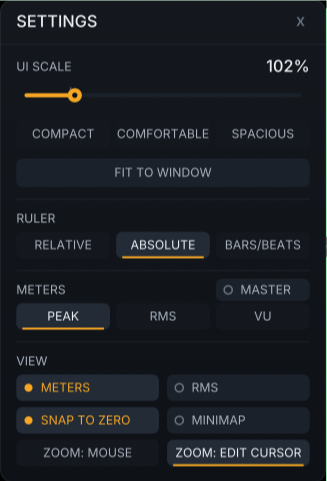
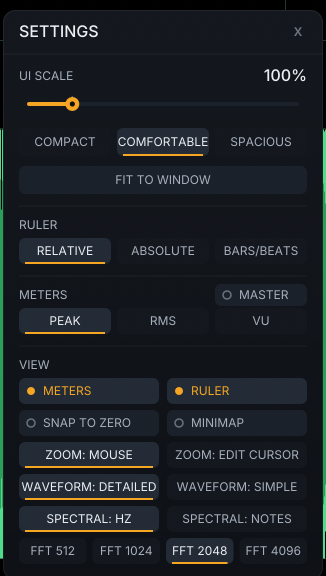
feat: spectrogram FFT-size option - Settings > View gains FFT 512 / 1024 / 2048 / 4096 (default 2048), hop = N/4 at every size, the choice persists and the open spectrogram recomputes on the spot (row 15 #3)
SpectralView carries the size at runtime: the preference (m_fftSize) is
snapshotted into the data geometry (m_specN/Half/Hop) when a compute starts,
so the worker and RenderView always paint the data they hold; the Hann table
is a member rebuilt only while no worker runs. Hop = N/4 keeps 75% overlap at
every size, so memory and compute time do not move with N. Spectral Repair
keeps its own HEAL_FFT (byte-identical suite).

CM_SPECTRAL_FFT_BASE..+3 (appended before CM_LAST, 2260..2263) set the size,
persist ExtState spectral_fft and reset m_spectralPainted - a short item
recomputes faster than one 33 ms timer tick, so the "was loading" pump never
fires and the ready-but-unpainted pump has to paint the result. Startup
restore next to spectral_notes. Settings panel: a 4-way FFT row under
SPECTRAL (SET_HIT_VIEW_FFT0..3, fftSeg[4], kSettingsH 538 -> 570); OFF build:
four checked "Spectral FFT: N" View entries.

Docs per increment: CHANGELOG Added, guide Spectral View + Settings > View
bullet, settings-panel.png re-shot with the new row (1:1, defaults).

Claude-Session: https://claude.ai/code/session_01RnUPyeoxofNpgPoP4AX9n2

diff --git a/docs/guide.html b/docs/guide.html
@@ -886,7 +886,7 @@ hr{border:none;border-top:1px solid var(--border);margin:48px 0}
 
 <p>Toggle the spectrogram via right-click > View > Spectral View. A resizable pane appears below the waveform showing a time-frequency representation of the audio using the magma color scheme (dark = silence, bright = energy).</p>
 
-<p>The spectrogram is computed asynchronously (2048-point FFT) when an item loads. A progress overlay shows computation status. After computation completes, the display updates instantly.</p>
+<p>The spectrogram is computed asynchronously when an item loads, with the FFT size chosen in Settings &gt; View: <strong>FFT 512 / 1024 / 2048 / 4096</strong> (default 2048). A larger size resolves close partials and hum harmonics in frequency (4096 is about 11 Hz per bin at 44.1 kHz), a smaller one keeps clicks and transients sharp in time (512 is about 3 ms per column); the overlap stays at 75% at every size, so the cost does not change with it. The setting is remembered, and a change recomputes the open spectrogram. A progress overlay shows computation status; after computation completes, the display updates instantly.</p>
 
 <p>Click and drag on the spectrogram to select a <strong>time x frequency rectangle</strong> (a dashed marquee with a frosted interior) - the standard spectral-editor selection and the target for Spectral Repair. The time axis stays in sync with the waveform selection. Grab any edge or corner of the rectangle to fine-tune it (the cursor shows resize arrows over the grab zones). Hold <kbd>Alt</kbd> and drag vertically to select a full-width frequency band instead, and <kbd>Shift</kbd>+click to extend the time range.</p>
 
@@ -1097,7 +1097,7 @@ hr{border:none;border-top:1px solid var(--border);margin:48px 0}
 <ul>
   <li><strong>Ruler</strong> - Relative / Absolute / Bars &amp; Beats.</li>
   <li><strong>Meters</strong> - Peak / RMS / VU ballistics, plus the Master Output source toggle.</li>
-  <li><strong>View</strong> - Meters, Ruler (hide for extra waveform height; markers fall back onto the waveform), Snap to Zero-Crossing, Minimap, the wheel-zoom anchor (<strong>Zoom: Mouse</strong> or <strong>Zoom: Edit Cursor</strong> - whether scroll zoom centers on the mouse position or the edit cursor), the <strong>Waveform style</strong> (Detailed = peak + RMS band, Simple = single-color peaks), and the <strong>Spectral scale</strong> (Hz or note names).</li>
+  <li><strong>View</strong> - Meters, Ruler (hide for extra waveform height; markers fall back onto the waveform), Snap to Zero-Crossing, Minimap, the wheel-zoom anchor (<strong>Zoom: Mouse</strong> or <strong>Zoom: Edit Cursor</strong> - whether scroll zoom centers on the mouse position or the edit cursor), the <strong>Waveform style</strong> (Detailed = peak + RMS band, Simple = single-color peaks), the <strong>Spectral scale</strong> (Hz or note names), and the spectrogram <strong>FFT size</strong> (512 / 1024 / 2048 / 4096 - larger is finer in frequency, smaller is sharper in time).</li>
 </ul>
 
 <p>The Dynamics panel follows the global scale too, multiplied by its own corner resize grip, so it grows with the rest of the UI while staying independently adjustable.</p>

diff --git a/src/spectral_view.cpp b/src/spectral_view.cpp
@@ -13,17 +13,6 @@
 #define M_PI 3.14159265358979323846
 #endif
 
-static float s_hann[SpectralView::FFT_SIZE];
-static std::once_flag s_hannFlag;
-
-static void InitHann()
-{
-  std::call_once(s_hannFlag, []() {
-    for (int i = 0; i < SpectralView::FFT_SIZE; i++)
-      s_hann[i] = (float)(0.5 * (1.0 - cos(2.0 * M_PI * i / (SpectralView::FFT_SIZE - 1))));
-  });
-}
-
 static void DoFFT(float* re, float* im, int N)
 {
   for (int i = 1, j = 0; i < N; i++) {
@@ -58,7 +47,14 @@ SpectralView::SpectralView()
     m_colorLUT[i] = MagmaColor((float)i / 255.0f);
     m_colorLUT_Native[i] = (unsigned int)m_colorLUT[i];
   }
-  InitHann();
+}
+
+void SpectralView::SetFftSize(int n)
+{
+  n = kFftSizes[FftIndex(n)];
+  if (n == m_fftSize) return;
+  m_fftSize = n;
+  ClearSpectrum();   // the next Paint recomputes with the new size (pane visible)
 }
 
 SpectralView::~SpectralView()
@@ -133,11 +129,20 @@ void SpectralView::PrecomputeSpectrum(const WaveformView& waveform)
 
   if (nch < 1 || sr <= 0 || audio.empty()) return;
 
-  // Store metadata (safe — thread not running yet)
+  // Store metadata (safe — thread not running yet). The FFT geometry is
+  // snapshotted here: the worker and RenderView read m_specN/Half/Hop only.
   m_specNch = nch;
   m_specSr = sr;
   m_specDuration = (double)totalFrames / (double)sr;
-  m_specCols = (totalFrames + HOP_SIZE - 1) / HOP_SIZE;
+  m_specN = m_fftSize;
+  m_specHalf = m_specN / 2;
+  m_specHop = m_specN / 4;
+  if ((int)m_hann.size() != m_specN) {
+    m_hann.resize((size_t)m_specN);
+    for (int i = 0; i < m_specN; i++)
+      m_hann[(size_t)i] = (float)(0.5 * (1.0 - cos(2.0 * M_PI * i / (m_specN - 1))));
+  }
+  m_specCols = (totalFrames + m_specHop - 1) / m_specHop;
   if (m_specCols < 1) return;
 
   // Copy audio data for the thread (avoid referencing waveform from thread)
@@ -159,32 +164,34 @@ void SpectralView::PrecomputeSpectrum(const WaveformView& waveform)
 void SpectralView::ComputeThreadFunc(std::vector<double> audio, int nch, int sr, int totalFrames)
 {
   (void)sr;
-  int specCols = (totalFrames + HOP_SIZE - 1) / HOP_SIZE;
+  const int N = m_specN, half = m_specHalf, hop = m_specHop;
+  const float* hann = m_hann.data();
+  int specCols = (totalFrames + hop - 1) / hop;
 
   // Allocate result buffer locally; workers write disjoint column ranges.
-  std::vector<unsigned char> specData((size_t)specCols * (size_t)nch * FFT_HALF, 0);
+  std::vector<unsigned char> specData((size_t)specCols * (size_t)nch * (size_t)half, 0);
 
   std::atomic<int> colsDone{0};
 
   auto worker = [&](int c0, int c1) {
-    std::vector<float> re((size_t)FFT_SIZE), im((size_t)FFT_SIZE);
+    std::vector<float> re((size_t)N), im((size_t)N);
     for (int fc = c0; fc < c1; fc++) {
       if (m_cancelRequested.load()) return;
-      int centerFrame = fc * HOP_SIZE;
+      int centerFrame = fc * hop;
 
       auto gather = [&](int ch, float* dst) { // windowed frame of one channel
-        for (int i = 0; i < FFT_SIZE; i++) {
-          int frame = centerFrame - FFT_SIZE / 2 + i;
+        for (int i = 0; i < N; i++) {
+          int frame = centerFrame - N / 2 + i;
           dst[i] = (frame >= 0 && frame < totalFrames)
-            ? (float)audio[(size_t)frame * (size_t)nch + (size_t)ch] * s_hann[i]
+            ? (float)audio[(size_t)frame * (size_t)nch + (size_t)ch] * hann[i]
             : 0.0f;
         }
       };
       auto writeMag = [&](int ch, int bin, float xr, float xi) {
         float m = sqrtf(xr * xr + xi * xi);
-        float db = 20.0f * log10f(m / (float)FFT_SIZE + 1e-10f);
+        float db = 20.0f * log10f(m / (float)N + 1e-10f);
         float norm = (db + 90.0f) / 90.0f;
-        specData[((size_t)fc * (size_t)nch + (size_t)ch) * FFT_HALF + (size_t)bin] =
+        specData[((size_t)fc * (size_t)nch + (size_t)ch) * (size_t)half + (size_t)bin] =
           (unsigned char)(std::max(0.0f, std::min(1.0f, norm)) * 255.0f);
       };
 
@@ -192,9 +199,9 @@ void SpectralView::ComputeThreadFunc(std::vector<double> audio, int nch, int sr,
         if (ch + 1 < nch) {
           gather(ch, re.data());
           gather(ch + 1, im.data());
-          DoFFT(re.data(), im.data(), FFT_SIZE);
-          for (int bin = 0; bin < FFT_HALF; bin++) {
-            int mirror = bin == 0 ? 0 : FFT_SIZE - bin;
+          DoFFT(re.data(), im.data(), N);
+          for (int bin = 0; bin < half; bin++) {
+            int mirror = bin == 0 ? 0 : N - bin;
             float a = re[bin], b = im[bin];
             float c = re[mirror], d = im[mirror];
             writeMag(ch,     bin, 0.5f * (a + c), 0.5f * (b - d));
@@ -203,8 +210,8 @@ void SpectralView::ComputeThreadFunc(std::vector<double> audio, int nch, int sr,
         } else { // odd channel count: plain real-in-re transform for the tail
           gather(ch, re.data());
           std::fill(im.begin(), im.end(), 0.0f);
-          DoFFT(re.data(), im.data(), FFT_SIZE);
-          for (int bin = 0; bin < FFT_HALF; bin++)
+          DoFFT(re.data(), im.data(), N);
+          for (int bin = 0; bin < half; bin++)
             writeMag(ch, bin, re[bin], im[bin]);
         }
       }
@@ -274,7 +281,7 @@ void SpectralView::RenderView(const WaveformView& waveform)
     int chSep = (nch > 1) ? SP(CHANNEL_SEPARATOR_HEIGHT) : 0;
     int chH = (nch > 1) ? (height - chSep) / 2 : height;
 
-    double colTime = (double)HOP_SIZE / (double)m_specSr;
+    double colTime = (double)m_specHop / (double)m_specSr;
     double nyquist = (double)m_specSr / 2.0;
     double fMin = std::min(FREQ_MIN, nyquist * 0.5);
     double fMax = std::min(FREQ_MAX, nyquist);
@@ -291,15 +298,15 @@ void SpectralView::RenderView(const WaveformView& waveform)
     for (int py = 0; py < chH; py++) {
       double pyFrac = (double)py / (double)chH;
       double freq = fMin * pow(logRatio, pyFrac);
-      float binF = (float)(freq / nyquist * (double)(FFT_HALF - 1));
+      float binF = (float)(freq / nyquist * (double)(m_specHalf - 1));
       binLow[py] = (int)binF;
-      binHigh[py] = std::min(binLow[py] + 1, FFT_HALF - 1);
+      binHigh[py] = std::min(binLow[py] + 1, m_specHalf - 1);
       binFrac[py] = binF - (float)binLow[py];
     }
     for (int py = 0; py <= chH; py++) {
       double pyFrac = (double)py / (double)chH;
       double freq = fMin * pow(logRatio, pyFrac);
-      binEdge[(size_t)py] = (float)(freq / nyquist * (double)(FFT_HALF - 1));
+      binEdge[(size_t)py] = (float)(freq / nyquist * (double)(m_specHalf - 1));
     }
 
     for (int px = 0; px < width; px++) {
@@ -314,15 +321,15 @@ void SpectralView::RenderView(const WaveformView& waveform)
 
       for (int ch = 0; ch < nch; ch++) {
         int chTop = ch * (chH + chSep);
-        const unsigned char* col0 = &m_specData[((size_t)sc0 * (size_t)nch + (size_t)ch) * FFT_HALF];
-        const unsigned char* col1 = &m_specData[((size_t)sc1 * (size_t)nch + (size_t)ch) * FFT_HALF];
+        const unsigned char* col0 = &m_specData[((size_t)sc0 * (size_t)nch + (size_t)ch) * m_specHalf];
+        const unsigned char* col1 = &m_specData[((size_t)sc1 * (size_t)nch + (size_t)ch) * m_specHalf];
 
         for (int py = 0; py < chH; py++) {
           int screenY = chTop + chH - 1 - py;
           if (screenY < 0 || screenY >= height) continue;
 
           int b0 = binLow[py], b1 = binHigh[py];
-          int bSpanEnd = std::min(FFT_HALF - 1, (int)binEdge[(size_t)py + 1]);
+          int bSpanEnd = std::min(m_specHalf - 1, (int)binEdge[(size_t)py + 1]);
           bool freqDown = (bSpanEnd - b0) >= 2; // row spans 2+ bins
 
           float val;
@@ -334,7 +341,7 @@ void SpectralView::RenderView(const WaveformView& waveform)
             int bHi = std::max(b0, bSpanEnd);
             for (int c = sc0; c <= scEnd; c++) {
               const unsigned char* colp =
-                &m_specData[((size_t)c * (size_t)nch + (size_t)ch) * FFT_HALF];
+                &m_specData[((size_t)c * (size_t)nch + (size_t)ch) * m_specHalf];
               for (int b = b0; b <= bHi; b++) mx = std::max(mx, colp[b]);
             }
             val = (float)mx;

diff --git a/src/context_menu.cpp b/src/context_menu.cpp
@@ -389,6 +389,12 @@ void SneakPeak::OnRightClick(int x, int y)
   MenuAppend(viewMenu, MF_STRING, CM_SPECTRAL_NOTES,
              m_spectral.GetNoteScale() ? "Spectral Scale: Notes  \xE2\x9C\x93"
                                        : "Spectral Scale: Notes");
+  for (int i = 0; i < 4; ++i) {
+    char buf[40];
+    snprintf(buf, sizeof(buf), "Spectral FFT: %d%s", SpectralView::kFftSizes[i],
+             m_spectral.GetFftSize() == SpectralView::kFftSizes[i] ? "  \xE2\x9C\x93" : "");
+    MenuAppend(viewMenu, MF_STRING, CM_SPECTRAL_FFT_BASE + (unsigned)i, buf);
+  }
 #endif
 #ifndef SNEAKPEAK_BLEND2D_PANEL
   // UI Scale submenu - the OFF-build (GDI) fallback control only. The premium build
@@ -1067,6 +1073,18 @@ void SneakPeak::OnContextMenuCommand(int id)
         MarkUiScaleUserSet();
       } else if (id >= CM_SPECTRAL_HEAL_BASE && id < CM_SPECTRAL_HEAL_BASE + kHealStrengthCount) {
         DoSpectralHeal(kHealStrengths[id - CM_SPECTRAL_HEAL_BASE]);
+      } else if (id >= CM_SPECTRAL_FFT_BASE && id <= CM_SPECTRAL_FFT_LAST) {
+        // Spectrogram FFT size (row 15 #3): drops the spectrum; the visible pane recomputes.
+        // A short item recomputes faster than one timer tick, so the "was loading" pump
+        // never fires - the ready-but-unpainted pump (m_spectralPainted) paints the result.
+        m_spectral.SetFftSize(SpectralView::kFftSizes[id - CM_SPECTRAL_FFT_BASE]);
+        m_spectralPainted = false;
+        if (g_SetExtState) {
+          char buf[8];
+          snprintf(buf, sizeof(buf), "%d", m_spectral.GetFftSize());
+          g_SetExtState("SneakPeak", "spectral_fft", buf, true);
+        }
+        Invalidate();
       } else if (id >= CM_LIM_PRESET_BASE && id < CM_LIM_PRESET_BASE + kLimPresetCount) {
         m_limiterPanel.ApplyPreset(id - CM_LIM_PRESET_BASE);
         m_limiterPanel.ClearParamsChanged();

diff --git a/src/spectral_view.h b/src/spectral_view.h
@@ -29,10 +29,16 @@ public:
   float GetProgress() const { return m_progress.load(); }
 
 
-  // FFT parameters
-  static const int FFT_SIZE = 2048;
-  static const int FFT_HALF = FFT_SIZE / 2;
-  static const int HOP_SIZE = 512;
+  // FFT size preference (row 15 #3): 512 / 1024 / 2048 / 4096, hop = N/4 (75 %
+  // overlap at every size, so columns x bytes per column - memory and compute -
+  // stay constant). A change drops the spectrum; the next Paint recomputes.
+  static constexpr int kFftSizes[4] = { 512, 1024, 2048, 4096 };
+  static int FftIndex(int n) {          // size -> kFftSizes index (unknown -> 2048)
+    for (int i = 0; i < 4; i++) if (kFftSizes[i] == n) return i;
+    return 2;
+  }
+  void SetFftSize(int n);
+  int  GetFftSize() const { return m_fftSize; }
 
   // Display frequency range (Hz)
   static constexpr double FREQ_MIN = 20.0;
@@ -77,8 +83,13 @@ private:
   COLORREF m_colorLUT[256];
   unsigned int m_colorLUT_Native[256];
 
-  // Pre-computed full spectrogram
+  // Pre-computed full spectrogram. m_specN/Half/Hop are the geometry the DATA was
+  // computed with (snapshot of the preference at launch) - the worker and
+  // RenderView read these, never m_fftSize, so render always matches the data.
   std::vector<unsigned char> m_specData;
+  int m_fftSize = 2048;
+  int m_specN = 2048, m_specHalf = 1024, m_specHop = 512;
+  std::vector<float> m_hann;   // window of m_specN taps, rebuilt while no worker runs
   int m_specCols = 0;
   int m_specNch = 0;
   int m_specSr = 0;

diff --git a/src/ui_render.h b/src/ui_render.h
@@ -304,6 +304,10 @@ enum SettingsHit {
   SET_HIT_VIEW_WAVE1   = 20,  // waveform style: Simple (single colour, #83)
   SET_HIT_VIEW_SPEC0   = 21,  // spectral scale: Hz
   SET_HIT_VIEW_SPEC1   = 22,  // spectral scale: note names (forum #88)
+  SET_HIT_VIEW_FFT0    = 23,  // spectrogram FFT size 512 / 1024 / 2048 / 4096 (FFT0 + i)
+  SET_HIT_VIEW_FFT1    = 24,
+  SET_HIT_VIEW_FFT2    = 25,
+  SET_HIT_VIEW_FFT3    = 26,
 };
 
 // Current preference values, filled by the host each paint (it owns this state).
@@ -318,6 +322,7 @@ struct SettingsPrefs {
   bool minimap = false;
   bool zoomOnCursor = false;   // wheel zoom centers on the edit cursor (default: mouse)
   bool spectralNotes = false;  // spectral scale/grid in note names instead of Hz (#88)
+  int  spectralFft = 2;        // SpectralView::kFftSizes index (512 / 1024 / 2048 / 4096)
 };
 
 // View-model for RenderSettingsPanel - pure data, built by SettingsPanel each paint.
@@ -379,6 +384,7 @@ struct SettingsLayout {
   URect zoomSeg[2];                              // VIEW: wheel-zoom center Mouse / Cursor
   URect waveSeg[2];                              // VIEW: waveform style Detailed / Simple
   URect specSeg[2];                              // VIEW: spectral scale Hz / Notes
+  URect fftSeg[4];                               // VIEW: spectrogram FFT 512 / 1024 / 2048 / 4096
 };
 SettingsLayout ComputeSettingsLayout(double w, double h);
 

diff --git a/src/ui_render.cpp b/src/ui_render.cpp
@@ -1393,7 +1393,11 @@ SettingsLayout ComputeSettingsLayout(double w, double h)
   y += 32.0;
   L.specSeg[0] = { pad, y, pillW, 26.0 };                     // SPECTRAL: HZ
   L.specSeg[1] = { pad + pillW + 8.0, y, pillW, 26.0 };       // SPECTRAL: NOTES
-  // final y + 26 + 16 bottom pad == kSettingsH (538) - keep in sync with ui_theme.h
+  y += 32.0;
+  const double fftW = (w - 2.0 * pad - 18.0) / 4.0;
+  for (int i = 0; i < 4; ++i)
+    L.fftSeg[i] = { pad + i * (fftW + 6.0), y, fftW, 26.0 };  // FFT 512 .. 4096
+  // final y + 26 + 16 bottom pad == kSettingsH (570) - keep in sync with ui_theme.h
   return L;
 }
 
@@ -1539,6 +1543,11 @@ void UiCanvas::RenderSettingsPanel(HDC hdc, int x, int y, int w, int h, double d
     // horizontal grid lines follow the active scale.
     DrawSegmented2(ctx, gfx, L.specSeg[0], L.specSeg[1], "SPECTRAL: HZ",
                    "SPECTRAL: NOTES", vm.prefs.spectralNotes);
+    // Spectrogram FFT size (row 15 #3): finer frequency (4096) vs sharper time (512).
+    {
+      static const char* const kFftLabels[4] = { "FFT 512", "FFT 1024", "FFT 2048", "FFT 4096" };
+      DrawSegmentedN(ctx, gfx, L.fftSeg, kFftLabels, 4, vm.prefs.spectralFft);
+    }
 
     if (ctx.end() != BL_SUCCESS) return;
   }

diff --git a/src/settings_panel.cpp b/src/settings_panel.cpp
@@ -84,6 +84,8 @@ int SettingsPanel::HitId(double lx, double ly) const
   if (L.waveSeg[1].contains(lx, ly))    return SET_HIT_VIEW_WAVE1;
   if (L.specSeg[0].contains(lx, ly))    return SET_HIT_VIEW_SPEC0;
   if (L.specSeg[1].contains(lx, ly))    return SET_HIT_VIEW_SPEC1;
+  for (int i = 0; i < 4; ++i)
+    if (L.fftSeg[i].contains(lx, ly)) return SET_HIT_VIEW_FFT0 + i;
   return SET_HIT_NONE;
 }
 
@@ -138,7 +140,7 @@ bool SettingsPanel::OnMouseDown(int x, int y, RECT wr)
   // Migrated preferences: report the control id; the host runs its CM_* handler
   // (single behavior path for the panel and the OFF-build menu).
   const int hit = HitId(lx, ly);
-  if (hit >= SET_HIT_RULER0 && hit <= SET_HIT_VIEW_SPEC1) {
+  if (hit >= SET_HIT_RULER0 && hit <= SET_HIT_VIEW_FFT3) {
     m_prefClicked = hit;
     return true;
   }

diff --git a/src/input_handling.cpp b/src/input_handling.cpp
@@ -185,6 +185,10 @@ void SneakPeak::OnMouseDown(int x, int y, WPARAM wParam)
           // Spectral scale (#88): Hz vs note names, same 2-way pattern.
           case SET_HIT_VIEW_SPEC0:   if (m_spectral.GetNoteScale())  cmd = CM_SPECTRAL_NOTES; break;
           case SET_HIT_VIEW_SPEC1:   if (!m_spectral.GetNoteScale()) cmd = CM_SPECTRAL_NOTES; break;
+          // Spectrogram FFT size: a 4-way selector, one command id per size.
+          case SET_HIT_VIEW_FFT0: case SET_HIT_VIEW_FFT1:
+          case SET_HIT_VIEW_FFT2: case SET_HIT_VIEW_FFT3:
+            cmd = CM_SPECTRAL_FFT_BASE + (pref - SET_HIT_VIEW_FFT0); break;
         }
         if (cmd) OnContextMenuCommand(cmd);
       }

diff --git a/src/ui_theme.h b/src/ui_theme.h
@@ -99,7 +99,7 @@ constexpr int    kLoopPanelH = 352;  // == ComputeLoopLabLayout's footer bottom 
 
 // --- Settings panel (premium Settings overlay, v2.2.0) ---
 constexpr int    kSettingsW = 320;   // base size, logical px (scales with g_uiScale)
-constexpr int    kSettingsH = 538;   // == ComputeSettingsLayout's final y + bottom pad (keep in sync)
+constexpr int    kSettingsH = 570;   // == ComputeSettingsLayout's final y + bottom pad (keep in sync)
 // Density presets: friendly absolute UI scales (Compact / Comfortable / Spacious).
 // Shared by the renderer (active-segment detection) and the panel (click apply).
 constexpr double kDensityScale[3] = { 0.9, 1.0, 1.25 };

diff --git a/src/settings_panel.h b/src/settings_panel.h
@@ -37,7 +37,7 @@ public:
   // One-shot flags, polled by the host right after a consumed OnMouseDown.
   bool ScaleChangedByClick() { bool v = m_scaleClicked; m_scaleClicked = false; return v; }
   bool FitRequested()        { bool v = m_fitRequested; m_fitRequested = false; return v; }
-  // Preference control clicked (SET_HIT_RULER0..SET_HIT_VIEW_SPEC1), or
+  // Preference control clicked (SET_HIT_RULER0..SET_HIT_VIEW_FFT3), or
   // SET_HIT_NONE. The host maps the id onto its existing CM_* command handler.
   int  PrefClicked()         { int v = m_prefClicked; m_prefClicked = SET_HIT_NONE; return v; }
 

diff --git a/src/edit_view.h b/src/edit_view.h
@@ -196,6 +196,8 @@ enum ContextMenuID {
   CM_LOOP_LAB,                                         // INC-A5: open the Loop Lab panel
   CM_EDIT_COPY_STANDALONE,                             // INC-B4: ITEM -> copy as standalone tab
   CM_MULTI_MODE_LANES,                                 // row 15 #2: Lanes (per Track) - appended, ids are numeric in specs
+  CM_SPECTRAL_FFT_BASE,                                // row 15 #3: + SpectralView::kFftSizes index (512..4096)
+  CM_SPECTRAL_FFT_LAST = CM_SPECTRAL_FFT_BASE + 3,
   CM_LAST // sentinel -- keep last
 };
 

diff --git a/src/edit_view.cpp b/src/edit_view.cpp
@@ -137,6 +137,8 @@ void SneakPeak::Create()
     if (showRuler && showRuler[0] == '0') m_showRuler = false;
     const char* specNotes = g_GetExtState("SneakPeak", "spectral_notes");
     if (specNotes && specNotes[0] == '1') m_spectral.SetNoteScale(true);
+    const char* specFft = g_GetExtState("SneakPeak", "spectral_fft");
+    if (specFft && specFft[0]) m_spectral.SetFftSize(atoi(specFft));
     const char* zc = g_GetExtState("SneakPeak", "zoom_center");
     if (zc && zc[0] == '1') m_zoomOnEditCursor = true;
   }
